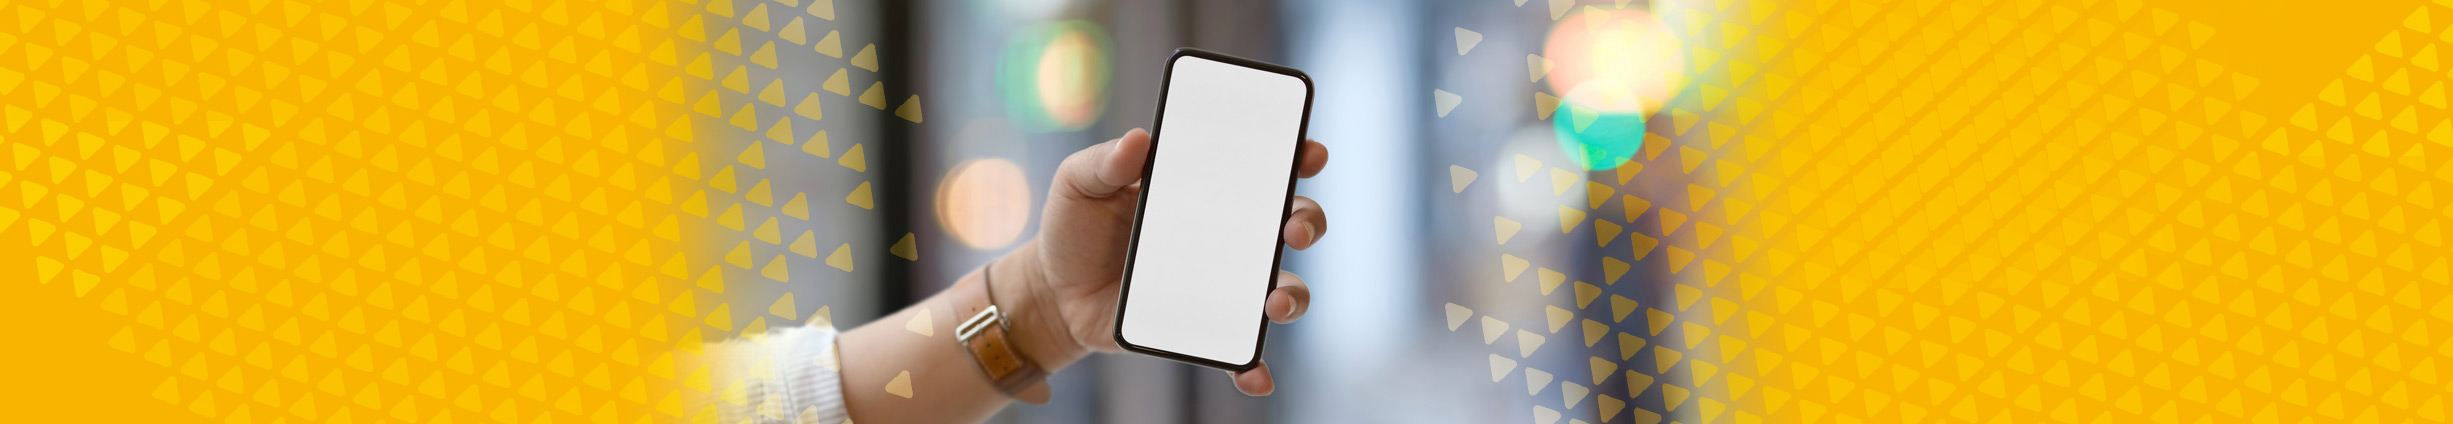
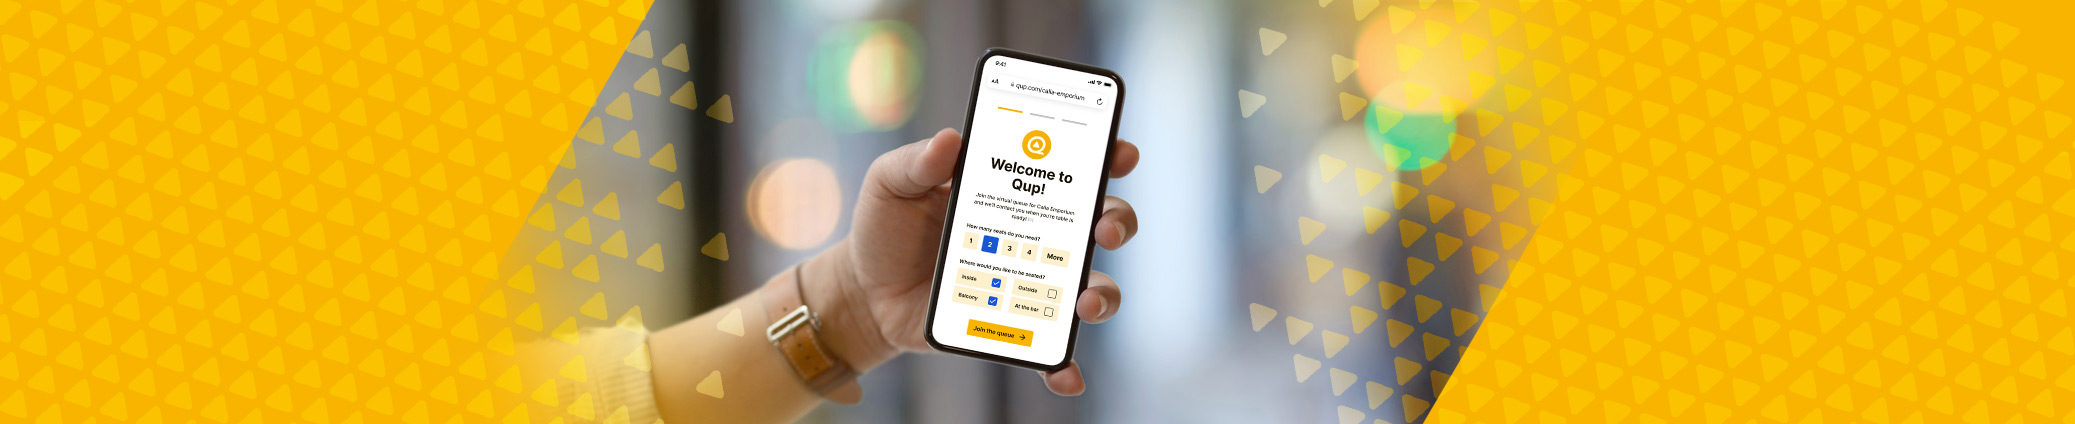
image update

diff --git a/css/index.css b/css/index.css
@@ -478,7 +478,7 @@ h1, h2, h3, h4 {
 #qupDemoImage {
     width: 100%;
     height: 450px;
-    background-image: url(../images/qupMockup2.jpg);
+    background-image: url(../images/qupMockup3.jpg);
     background-repeat: no-repeat;
     background-size: cover;
     background-position: center;
